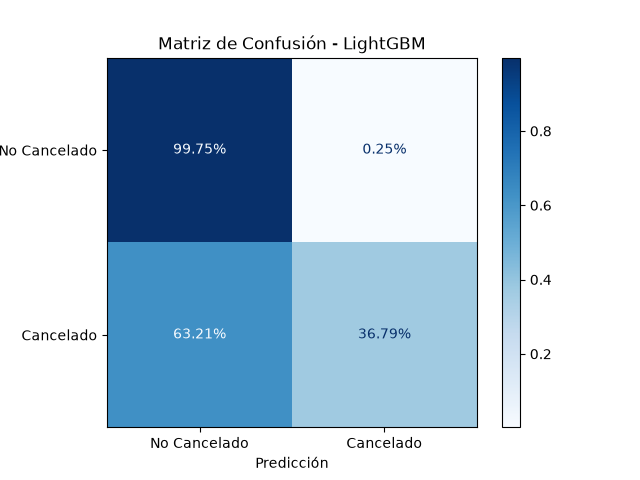
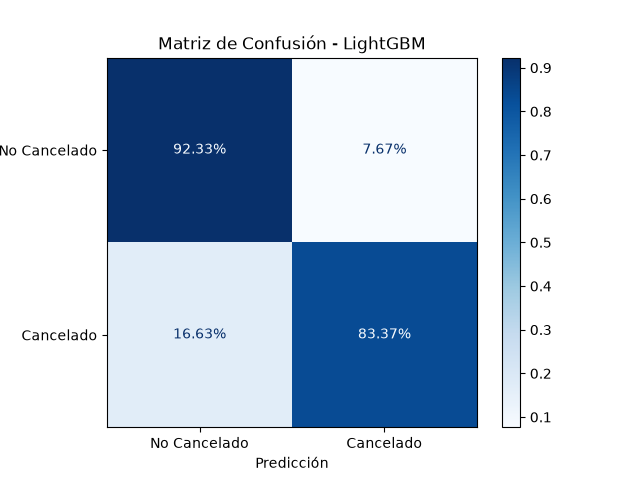
Arreglo parametros . Cambio orden grafica importancia variables.

diff --git a/src/config.py b/src/config.py
@@ -34,22 +34,23 @@ DICT_MODELS = {
 
 DICT_GRID_PARAMS = {
     'Random Forest': {
-        'model__max_depth': [4, 8, 12],
-        'model__n_estimators': [10, 20, 30],
+        'model__max_depth': [5, 10, 20],
+        'model__n_estimators': [50, 100, 200],
         'model__min_samples_leaf': [1, 2, 4],
-        'model__min_samples_split': [2, 5, 8],
+        'model__min_samples_split': [2, 5, 10],
     },
     'Decision Tree': {
-        'model__max_depth': [8, 12, 16]
+        'model__max_depth': [5, 10, 20],
+        'model__min_samples_split': [5],
+        'model__min_samples_leaf': [1],
     },
     'Logistic Regression': {
-         'model__C': [0.01],
-         'model__max_iter': [10],
+         'model__C': [0, 0.01, 0.1, 1, 10],
+         'model__max_iter': [10, 30, 50],
          'model__solver': ['liblinear'],
          'model__penalty': ['l1', 'l2'],
     },
     'LightGBM': {
-        'prep__cat__min_frequency': [5, 10, 20],
         'model__n_estimators': [200, 500],
         'model__num_leaves': [31, 63, 127],
         'model__learning_rate': [0.05, 0.1],
@@ -59,8 +60,8 @@ DICT_GRID_PARAMS = {
         'model__colsample_bytree': [0.8, 1.0],
     },
     'Gradient Boosting': {
-        'model__n_estimators': [10, 20],
+        'model__n_estimators': [10, 20, 50],
         'model__learning_rate': [0.03, 0.1],
-        'model__max_depth': [3, 5, 7]
+        'model__max_depth': [5, 10, 20]
     }
 }

diff --git a/src/evaluator.py b/src/evaluator.py
@@ -73,7 +73,7 @@ def generar_grafica_importancia_variables(pipeline, categorical_columns: list):
         return resto
 
     df_imp['variable_original'] = df_imp['variable'].apply(agrupar_variable)
-    df_agr = df_imp.groupby('variable_original', as_index=False)['importancia'].sum().sort_values(by='importancia', ascending=False)
+    df_agr = df_imp.groupby('variable_original', as_index=False)['importancia'].sum().sort_values(by='importancia', ascending=True)
 
     plt.figure(figsize=(10, 8))
     sns.barplot(x='importancia', y='variable_original', data=df_agr.head(15), palette='viridis')
